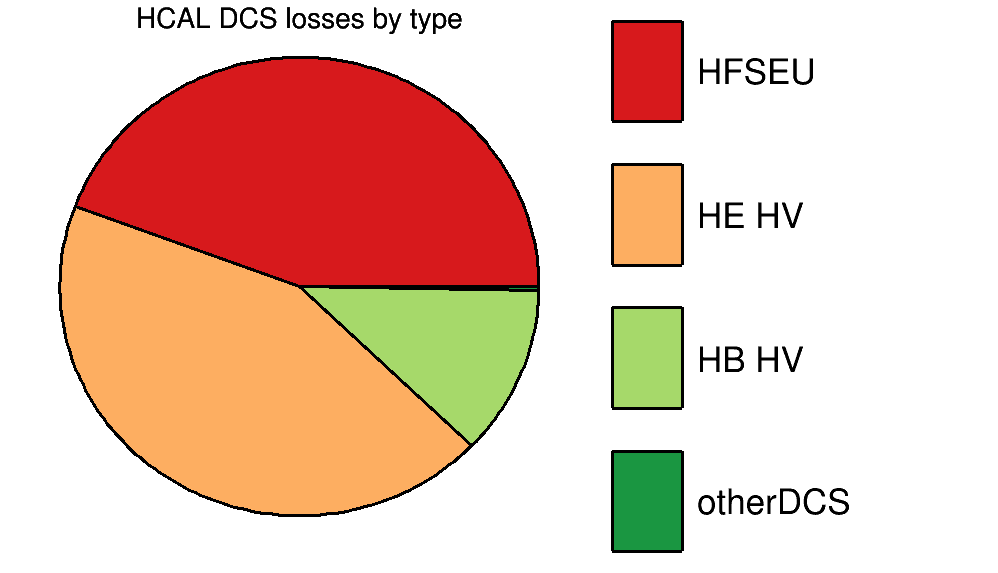
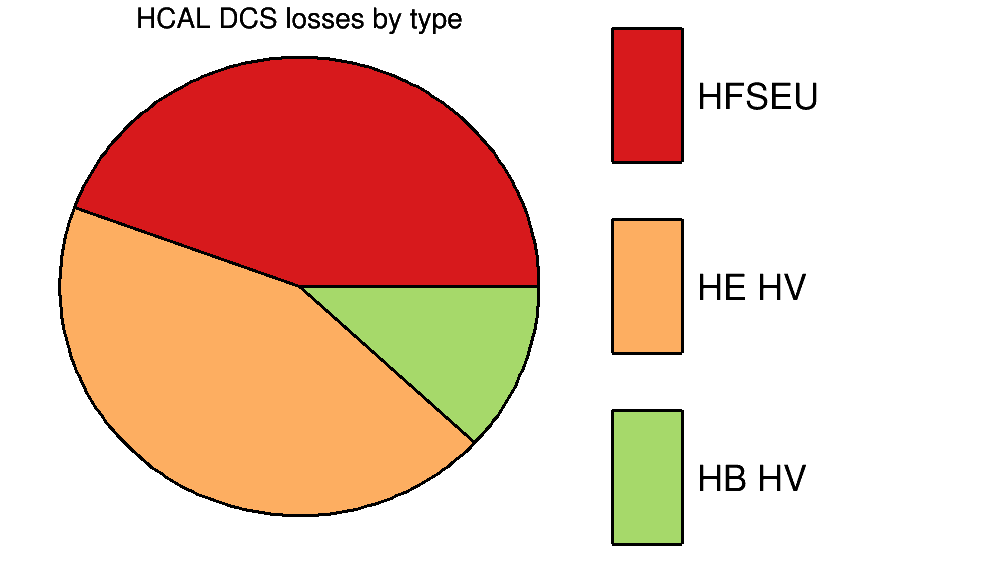
add turbine into plots

diff --git a/downtimes.cc b/downtimes.cc
@@ -200,9 +200,11 @@ void downtimes(){
   // Week 43
  float wk43_cmsrecorded = 3426.5;
  float  wk43_HF_305376 = 1.23; // HF bad fiber http://cmsonline.cern.ch/cms-elog/1017097
- float wk43_totalloss =  wk43_HF_305376;
-   // This week there was also 49.4 from turbine failure, NOT HCAL
-   // http://cmsonline.cern.ch/cms-elog/1017701
+ float  wk43_NOTHCAL   = 49.4; // turbine failure in HF rack, not HCAL http://cmsonline.cern.ch/cms-elog/1017701
+ float wk43_totalloss = 
+        wk43_HF_305376 +
+        wk43_NOTHCAL   ; 
+   
 
   // Week 44
  float wk44_cmsrecorded = 2983.4;
@@ -339,11 +341,8 @@ void downtimes(){
 
  float total_HV = HE_HV + HB_HV;
 
- //   Other DCS issues
- float total_otherDCS =
-        wk32_DCS          ; // HBHEb DCS
  //  Total DCS issues
- float total_DCS = total_HFSEU + total_HV + total_otherDCS;
+ float total_DCS = total_HFSEU + total_HV ;
 
  //  ngFEC 
  float total_ngFEC =
@@ -361,10 +360,14 @@ void downtimes(){
         wk43_HF_305376    + // HF bad fiber http://cmsonline.cern.ch/cms-elog/1017097
         wk46_HF_304119    ; // HF,HEP17 bad data http://cmsonline.cern.ch/cms-elog/1012226
 
+
+ float  total_Turbine = wk43_NOTHCAL; // turbine failure in HF rack, not HCAL http://cmsonline.cern.ch/cms-elog/1017701
+
  //   Other losses
  float total_Other =
         wk29_other        + // reported downtime is 118.47
-        wk32_other        ;  // total loss is reported as 32.6
+        wk32_other        +  // total loss is reported as 32.6
+        wk32_DCS          ; // HBHEb DCS
 
  
  ///// Calculations and printouts
@@ -377,7 +380,7 @@ void downtimes(){
  // HFSEU_afterreplace    
  // total_HFSEU           
  // total_HV              
- // total_otherDCS        
+ // total_Turbine
  // total_DCS             
  // total_ngFEC           
  // total_BadData         
@@ -426,25 +429,24 @@ void downtimes(){
  printf("   total_HEHV    %5.1f /pb \n", HE_HV       );       
  printf("   total_HBHV    %5.1f /pb \n", HB_HV       );       
  printf("  total_HV       %5.1f /pb \n", total_HV       );       
- printf("  total_otherDCS %5.1f /pb \n", total_otherDCS );       
  printf(" total_DCS      %5.1f /pb \n", total_DCS      );       
  printf(" total_ngFEC    %5.1f /pb \n", total_ngFEC    );       
  printf(" total_BadData  %5.1f /pb \n", total_BadData  );       
+ printf(" total_Turbine  %5.1f /pb \n", total_Turbine  );
  printf(" total_Other    %5.1f /pb \n", total_Other    ); 
  float total_HCALcrosscheck = 
   total_HFSEU    +       
   total_HV       +       
-  total_otherDCS +       
   total_ngFEC    +       
   total_BadData  +       
+  total_Turbine  +
   total_Other    ; 
  printf(" Total HCAL = %5.1f = %5.1f /pb \n",
   total_HCALloss, total_HCALcrosscheck);
  printf(" DCS %5.1f = %5.1f /pb \n",
   total_DCS      ,
   total_HV       +       
-  total_HFSEU    +
-  total_otherDCS );
+  total_HFSEU    );
 
  printf(" Weekly Breakdown\n");
   printf("  week 24 %5.1f /pb \n", wk24_totalloss);
@@ -643,9 +645,9 @@ void downtimes(){
   total_HFSEU   ,
   HE_HV    ,
   HB_HV    ,
-  total_otherDCS,
   total_ngFEC   ,
   total_BadData ,
+  total_Turbine,
   total_Other    
  };
  int cols_hcal_totalbytype[] = {
@@ -671,9 +673,9 @@ void downtimes(){
  pie_hcal_totalbytype->SetEntryLabel(0 ,"HFSEU   ");
  pie_hcal_totalbytype->SetEntryLabel(1 ,"HE HV   ");
  pie_hcal_totalbytype->SetEntryLabel(2 ,"HB HV   ");
- pie_hcal_totalbytype->SetEntryLabel(3 ,"otherDCS");
- pie_hcal_totalbytype->SetEntryLabel(4 ,"ngFEC   ");
- pie_hcal_totalbytype->SetEntryLabel(5 ,"BadData ");
+ pie_hcal_totalbytype->SetEntryLabel(3 ,"ngFEC   ");
+ pie_hcal_totalbytype->SetEntryLabel(4 ,"BadData ");
+ pie_hcal_totalbytype->SetEntryLabel(5 ,"Turbine ");
  pie_hcal_totalbytype->SetEntryLabel(6 ,"Other   ");
  pie_hcal_totalbytype->SetEntryLineWidth(0 ,3);
  pie_hcal_totalbytype->SetEntryLineWidth(1 ,3);
@@ -704,7 +706,6 @@ void downtimes(){
   total_HFSEU,
   HE_HV ,
   HB_HV ,
-  total_otherDCS
  };
  int cols_hcal_dcsbytype[] = {
   TColor::GetColor("#d7191c"),
@@ -726,11 +727,9 @@ void downtimes(){
  pie_hcal_dcsbytype->SetEntryLabel(0 ,"HFSEU   ");
  pie_hcal_dcsbytype->SetEntryLabel(1 ,"HE HV   ");
  pie_hcal_dcsbytype->SetEntryLabel(2 ,"HB HV   ");
- pie_hcal_dcsbytype->SetEntryLabel(3 ,"otherDCS");
  pie_hcal_dcsbytype->SetEntryLineWidth(0 ,3);
  pie_hcal_dcsbytype->SetEntryLineWidth(1 ,3);
  pie_hcal_dcsbytype->SetEntryLineWidth(2 ,3);
- pie_hcal_dcsbytype->SetEntryLineWidth(3 ,3);
 
  TLegend *leg_hcal_dcsbytype = pie_hcal_dcsbytype->MakeLegend();
 
